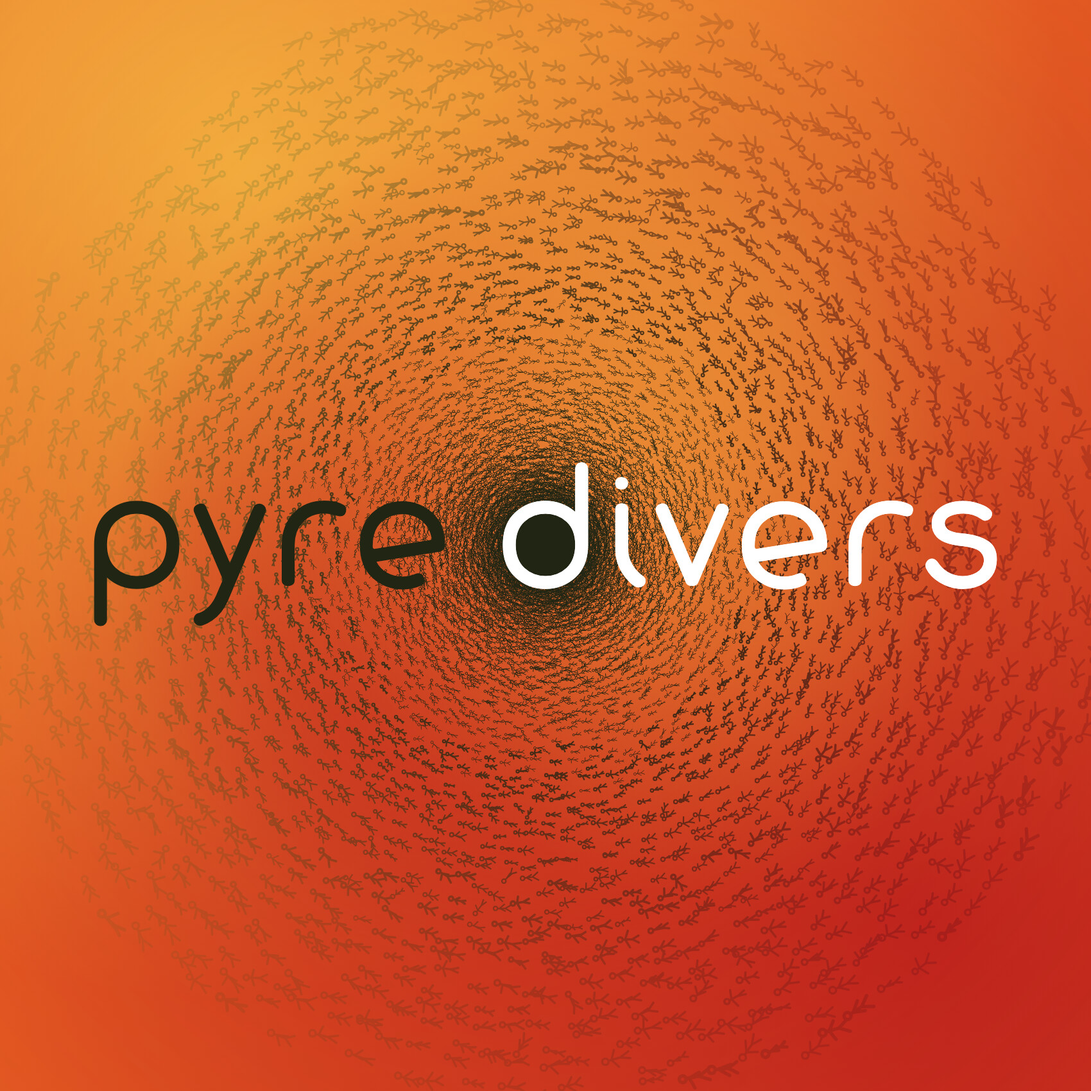
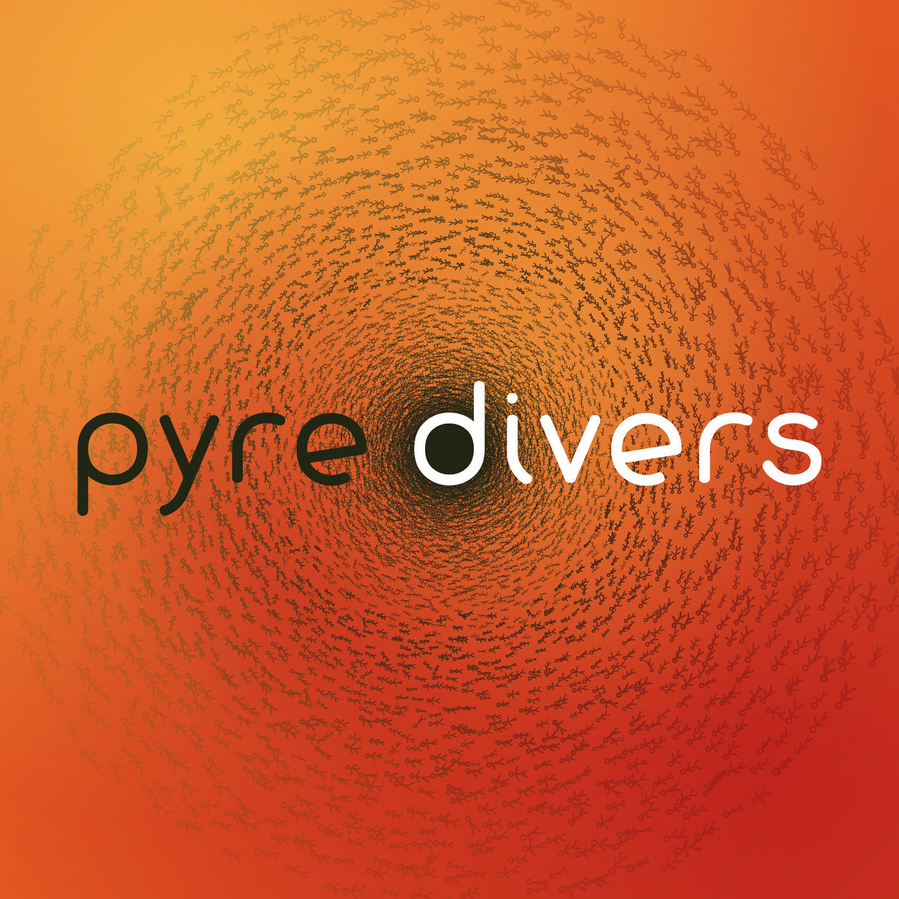
fix(feed): podcast cover under apple's 512KB artwork cap
The cover was 957KB (1700px, q92 4:4:4). Apple rejects show art over 512KB
at submission, which would cost a review round on launch day. Now 1400px —
apple's minimum — at q80, still 4:4:4 (4:2:0 smears the orange around every
dark figure): 440KB, indistinguishable at any size apps display it.

Claude-Session: https://claude.ai/code/session_01SxQq3fhB7amT4NeEUMVNk9

Changed region(s): [[0.3379, 0.3071, 0.6757, 0.6757]]

diff --git a/src/routes/feed.xml/+server.ts b/src/routes/feed.xml/+server.ts
@@ -18,7 +18,9 @@ const SITE = 'https://pyredivers.com';
 //     at HEAD_PX device px, so supersampling draws MORE heads, thickens the
 //     core, and swallows the "e" of "pyre" into the eye.
 // jpeg over png: a smooth gradient over thousands of tiny figures is ~6.7MB
-// as png and ~1MB as jpeg, at PSNR 40.6dB — no ringing even on the wordmark.
+// as png and ~1MB as jpeg. Then down to 1400px (apple's floor) at q80 4:4:4:
+// 440KB, under the 512KB apple caps show art at. Keep 4:4:4 — chroma
+// subsampling smears the orange around every dark figure.
 const COVER = `${SITE}/podcast-cover.jpg`;
 
 // apple and spotify want the enclosure's exact byte length. the media host is

diff --git a/tools/README.md b/tools/README.md
@@ -24,7 +24,8 @@ CHROME="$HOME/Library/Caches/ms-playwright/chromium-*/chrome-mac-x64/Google Chro
   --hide-scrollbars --force-device-scale-factor=1 \
   --window-size=1200,630 --virtual-time-budget=12000 \
   --screenshot=og.png http://localhost:5173/?test
-# square (cover + og-square) is the same call at --window-size=1700,1700
+# square (cover + og-square) is the same call at --window-size=1700,1700;
+# the podcast cover then goes to 1400px q80 4:4:4 — apple caps show art at 512KB
 magick og.png -strip -quality 92 -sampling-factor 4:4:4 -colorspace sRGB static/og.jpg
 ```
 
